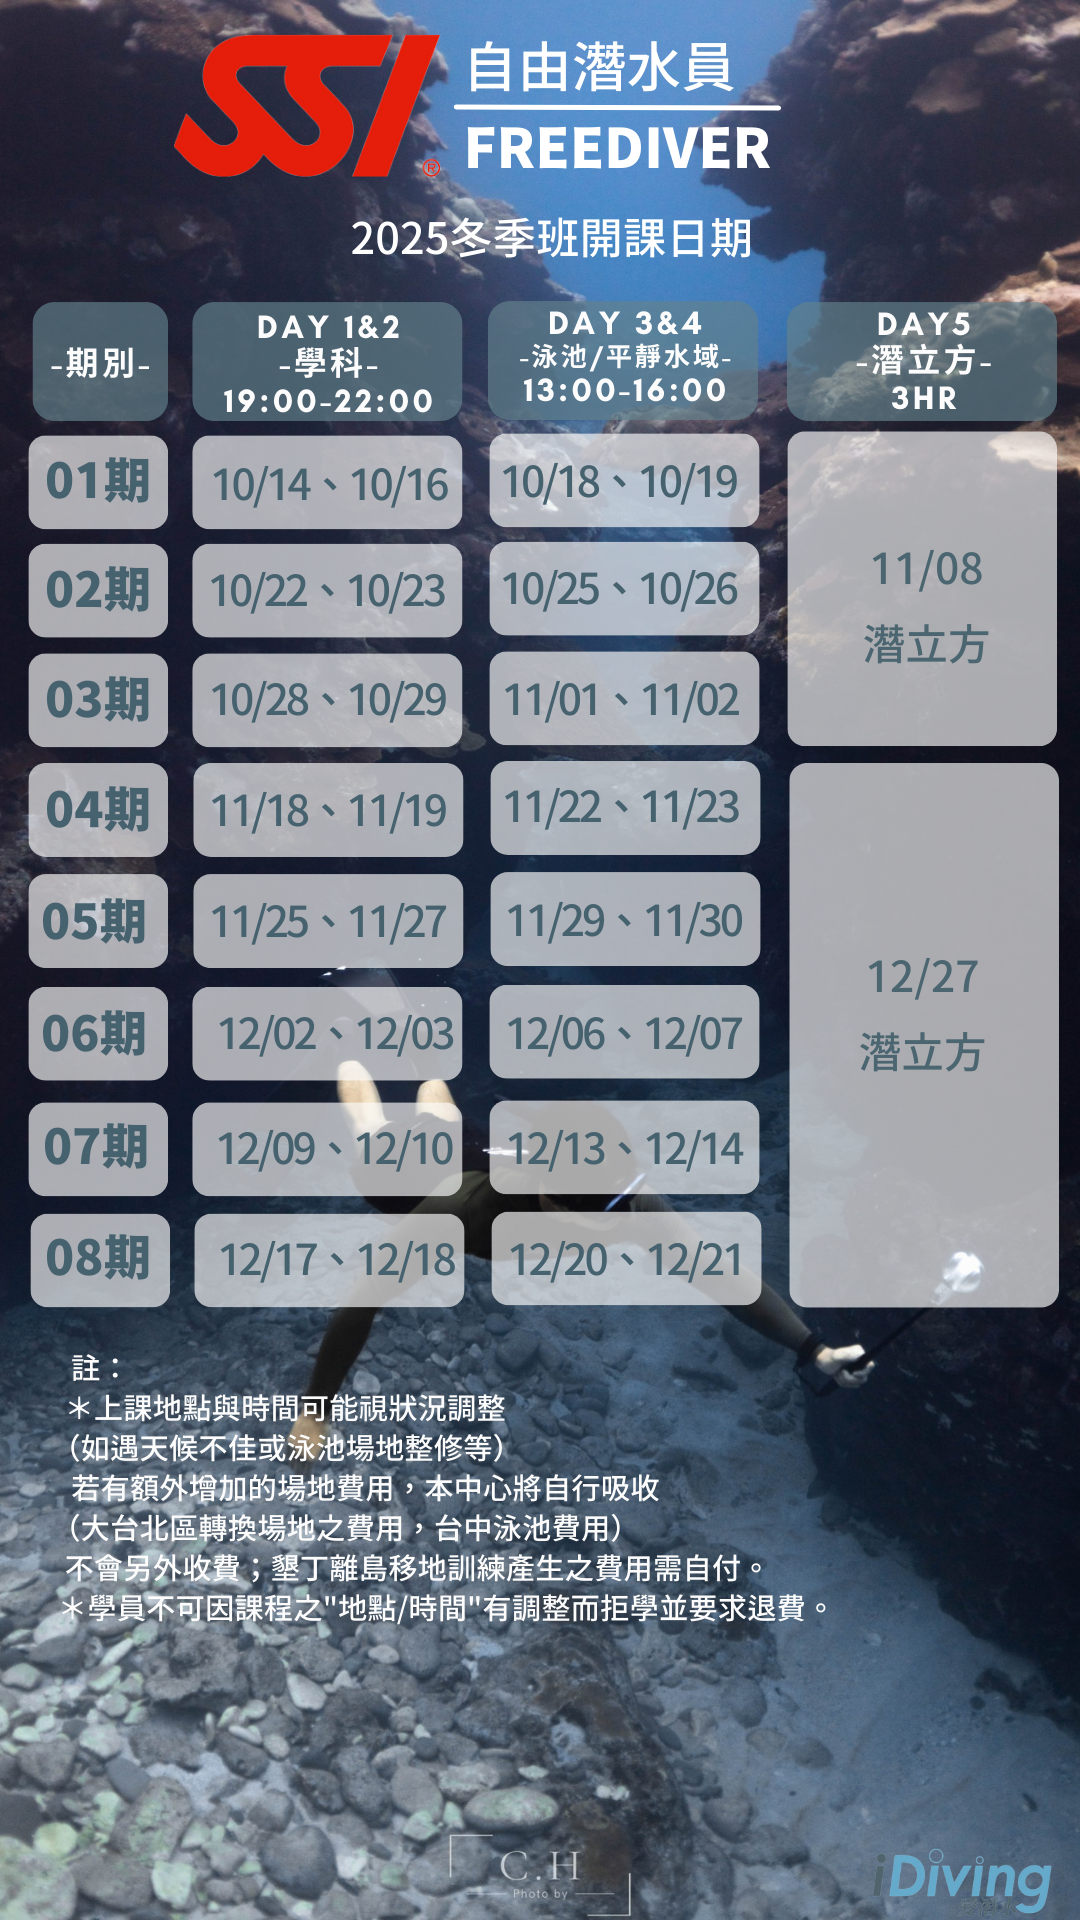
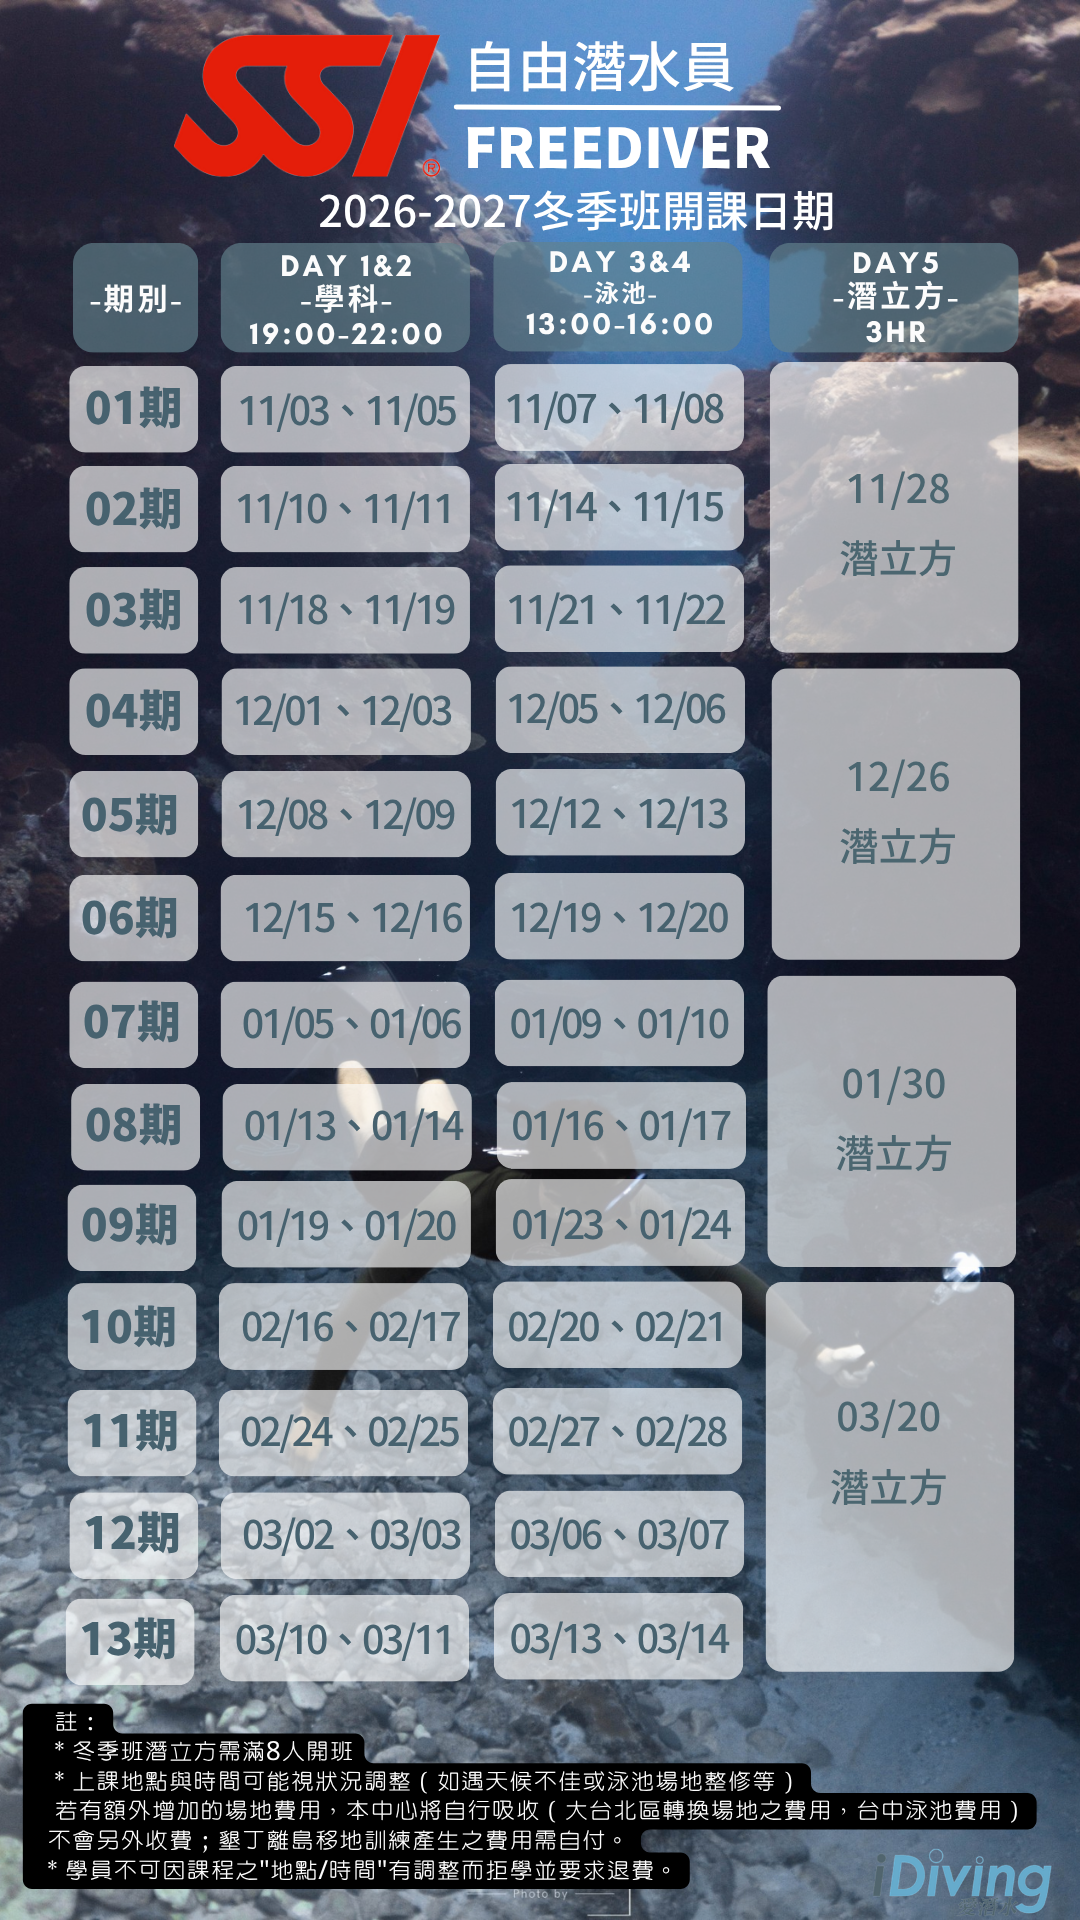
FD 冬季期別更新

diff --git a/src/app/pages/cfd110/cfd110.component.html b/src/app/pages/cfd110/cfd110.component.html
@@ -1741,9 +1741,9 @@
                                     <div class="carousel-item active">
                                         <img src="../../../../assets/Image/Data/FD_Winter_Schedule.png" class="d-block w-100" alt="...">
                                     </div>
-                                    <div class="carousel-item">
+                                    <!-- <div class="carousel-item">
                                         <img src="../../../../assets/Image/Data/FD_Winter_Schedule01.png" class="d-block w-100" alt="...">
-                                    </div>
+                                    </div> -->
                                 </div>
                                 <button class="carousel-control-prev" type="button" data-bs-target="#carouselExampleIndicators" data-bs-slide="prev">
                                     <span class="carousel-control-prev-icon" aria-hidden="true"></span>
